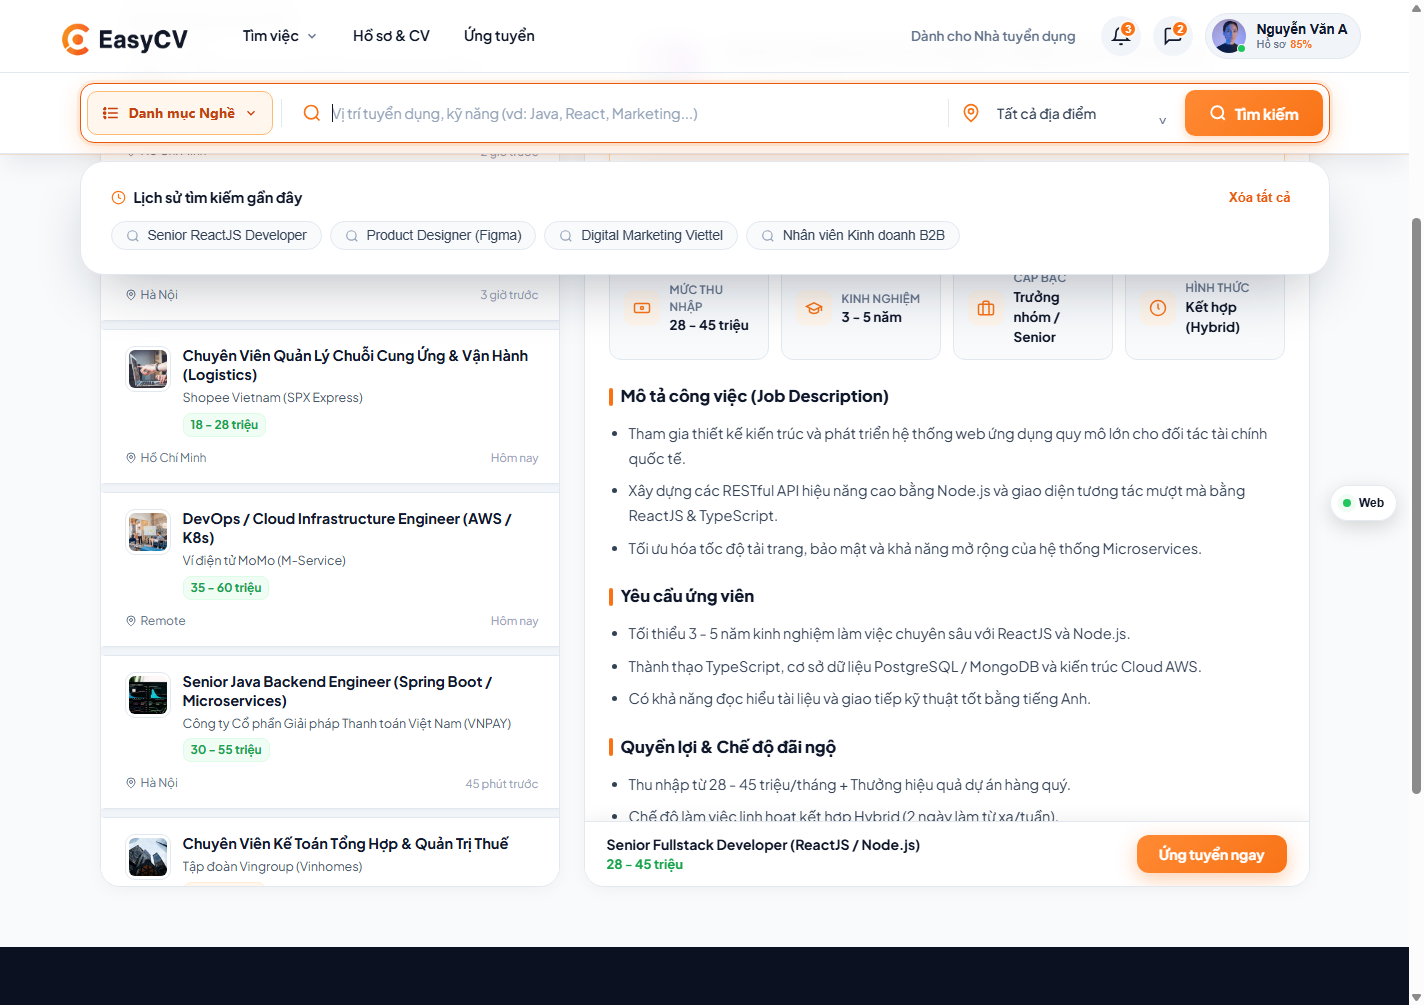
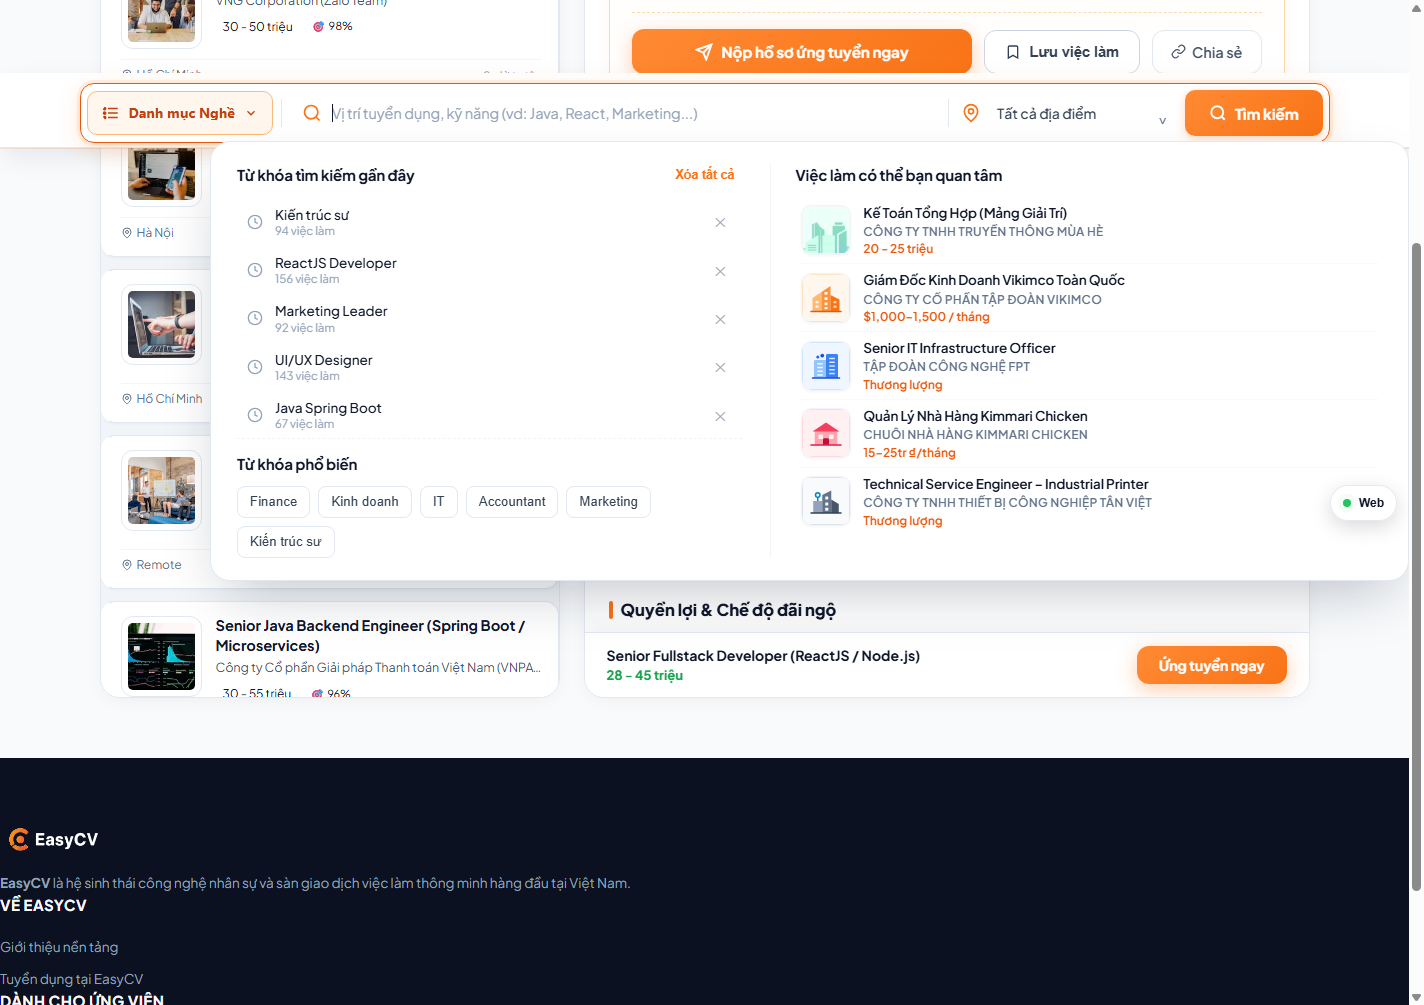
fix(job-detail): flush related cards and remove breadcrumb

diff --git a/scratch/verify_chi_tiet_suite.js b/scratch/verify_chi_tiet_suite.js
@@ -10,6 +10,7 @@ async function runTestSuite() {
     '--headless=new',
     '--remote-debugging-port=' + port,
     '--disable-gpu',
+    '--user-data-dir=D:\\master page\\scratch\\chrome-profile-detail-layout-cleanup',
     '--window-size=1440,1100',
     'http://localhost:3000/chi-tiet-viec-lam.html'
   ]);
@@ -66,6 +67,8 @@ async function runTestSuite() {
         const topNav = document.querySelector('.detail-top-nav');
         const listPane = document.getElementById('splitListPane');
         const listPaneComputed = listPane ? window.getComputedStyle(listPane) : null;
+        const listFeed = document.getElementById('splitListFeed');
+        const listFeedComputed = listFeed ? window.getComputedStyle(listFeed) : null;
         const firstCard = document.querySelector('.split-job-card');
         const firstCardComputed = firstCard ? window.getComputedStyle(firstCard) : null;
         const searchForm = document.getElementById('jobSearchForm');
@@ -75,9 +78,13 @@ async function runTestSuite() {
 
         return {
           detailTopNavPresent: !!topNav,
+          breadcrumbPresent: !!document.querySelector('.detail-breadcrumb-below-search'),
           listPanePaddingLeft: listPaneComputed ? listPaneComputed.paddingLeft : null,
           listPanePaddingRight: listPaneComputed ? listPaneComputed.paddingRight : null,
+          listFeedPaddingLeft: listFeedComputed ? listFeedComputed.paddingLeft : null,
+          listFeedPaddingRight: listFeedComputed ? listFeedComputed.paddingRight : null,
           firstCardWidth: firstCard ? firstCard.offsetWidth : null,
+          listFeedWidth: listFeed ? listFeed.clientWidth : null,
           listPaneWidth: listPane ? listPane.clientWidth : null,
           firstCardBorderLeft: firstCardComputed ? firstCardComputed.borderLeft : null,
           hasSearchForm: !!searchForm,
@@ -90,7 +97,10 @@ async function runTestSuite() {
     returnByValue: true
   });
 
-  console.log('1. Layout & Elements Check:', JSON.stringify(checkInitial.value, null, 2));
+  console.log('1. Layout & Elements Check:', JSON.stringify(checkInitial.result.value, null, 2));
+  if (checkInitial.result.value.breadcrumbPresent || checkInitial.result.value.listFeedPaddingLeft !== '0px' || checkInitial.result.value.listFeedPaddingRight !== '0px' || checkInitial.result.value.firstCardWidth !== checkInitial.result.value.listFeedWidth) {
+    throw new Error(`Related-list cleanup failed: ${JSON.stringify(checkInitial.result.value)}`);
+  }
 
   // Capture Initial Screenshot
   const shot1 = await send('Page.captureScreenshot', { format: 'png' });
@@ -114,7 +124,7 @@ async function runTestSuite() {
     `,
     returnByValue: true
   });
-  console.log('2. Open Category Modal Check:', JSON.stringify(openModalRes.value, null, 2));
+  console.log('2. Open Category Modal Check:', JSON.stringify(openModalRes.result.value, null, 2));
   await new Promise(r => setTimeout(r, 600));
 
   const shotCat = await send('Page.captureScreenshot', { format: 'png' });
@@ -157,7 +167,7 @@ async function runTestSuite() {
     `,
     returnByValue: true
   });
-  console.log('3. Search Input & Clear Button Check:', JSON.stringify(searchTestRes.value, null, 2));
+  console.log('3. Search Input & Clear Button Check:', JSON.stringify(searchTestRes.result.value, null, 2));
 
   // Step 4: Test Sticky Search on Scroll
   await send('Runtime.evaluate', {
@@ -181,7 +191,7 @@ async function runTestSuite() {
     `,
     returnByValue: true
   });
-  console.log('4. Sticky Search on Scroll Check:', JSON.stringify(stickyCheck.value, null, 2));
+  console.log('4. Sticky Search on Scroll Check:', JSON.stringify(stickyCheck.result.value, null, 2));
 
   const shotSticky = await send('Page.captureScreenshot', { format: 'png' });
   if (shotSticky && shotSticky.data) {
@@ -205,6 +215,30 @@ async function runTestSuite() {
     fs.writeFileSync(path.resolve(__dirname, 'chi_tiet_feed_scrolled.png'), Buffer.from(shotFeed.data, 'base64'));
     console.log('Saved scratch/chi_tiet_feed_scrolled.png');
   }
+
+  // Step 6: Verify the same cleanup at the 375px mobile breakpoint
+  await send('Emulation.setDeviceMetricsOverride', { width: 375, height: 812, deviceScaleFactor: 1, mobile: true });
+  const mobileLayout = await send('Runtime.evaluate', {
+    expression: `(() => {
+      const feed = document.getElementById('splitListFeed');
+      const card = feed?.querySelector('.split-job-card');
+      const style = feed ? getComputedStyle(feed) : null;
+      return {
+        breadcrumbPresent: !!document.querySelector('.detail-breadcrumb-below-search'),
+        paddingLeft: style?.paddingLeft,
+        paddingRight: style?.paddingRight,
+        cardWidth: card?.offsetWidth,
+        feedWidth: feed?.clientWidth,
+        viewport: document.documentElement.clientWidth
+      };
+    })()`,
+    returnByValue: true
+  });
+  console.log('5. Mobile Related-list Check:', JSON.stringify(mobileLayout.result.value, null, 2));
+  if (mobileLayout.result.value.breadcrumbPresent || mobileLayout.result.value.paddingLeft !== '0px' || mobileLayout.result.value.paddingRight !== '0px' || mobileLayout.result.value.cardWidth !== mobileLayout.result.value.feedWidth) {
+    throw new Error(`Mobile related-list cleanup failed: ${JSON.stringify(mobileLayout.result.value)}`);
+  }
+  await send('Emulation.clearDeviceMetricsOverride');
 
   ws.close();
   chrome.kill();

diff --git a/chi-tiet-viec-lam.html b/chi-tiet-viec-lam.html
@@ -11,26 +11,16 @@
   <link rel="stylesheet" href="css/home.css?v=7.0_cv_carousel">
   <link rel="stylesheet" href="css/location-picker.css?v=2.0">
   <link rel="stylesheet" href="css/category-filter-modal.css?v=1.5_all_pages_clear_backdrop">
-  <link rel="stylesheet" href="css/viec-lam.css?v=13.0_detail_search_sync">
+  <link rel="stylesheet" href="css/viec-lam.css?v=13.1_detail_list_flush">
   <style>
     .single-job-hero {
       background: linear-gradient(180deg, #FFFFFF 0%, #FFF7ED 50%, #F8FAFC 100%);
       border-bottom: 1px solid #E2E8F0;
       padding: 20px 0 16px 0;
     }
-    .detail-breadcrumb-below-search {
-      margin-top: 14px;
-      margin-bottom: 0;
-      padding: 0 4px;
-      font-size: 13.5px;
-      display: flex;
-      align-items: center;
-      flex-wrap: wrap;
-      gap: 8px;
-    }
     /* Bo góc thẻ việc làm liên quan khác và logo chuẩn 81x81 */
     .split-list-feed {
-      padding: 12px 14px 20px 14px !important;
+      padding: 12px 0 20px 0 !important;
       gap: 12px !important;
     }
     .split-job-card {
@@ -824,15 +814,6 @@
             </div>
           </div>
         </div>
-
-        <!-- Breadcrumb: Mô tả đường dẫn bên dưới box tìm kiếm -->
-        <nav class="breadcrumb-nav detail-breadcrumb-below-search" aria-label="Breadcrumb">
-          <a href="index.html">Trang chủ</a>
-          <span class="sep">/</span>
-          <a href="viec-lam.html">Tìm kiếm việc làm</a>
-          <span class="sep">/</span>
-          <span class="current" id="breadcrumbJobTitle">Chuyên Viên Quản Lý Chuỗi Cung Ứng &amp; Vận Hành (Logistics)</span>
-        </nav>
 
         <!-- Popover / Modal: Chọn Nhóm nghề, Nghề hoặc Chuyên môn -->
         <div class="category-modal-overlay" id="categoryModalOverlay" role="dialog" aria-modal="true" aria-labelledby="categoryModalTitle" hidden>

diff --git a/public/chi-tiet-viec-lam.html b/public/chi-tiet-viec-lam.html
@@ -11,26 +11,16 @@
   <link rel="stylesheet" href="css/home.css?v=7.0_cv_carousel">
   <link rel="stylesheet" href="css/location-picker.css?v=2.0">
   <link rel="stylesheet" href="css/category-filter-modal.css?v=1.5_all_pages_clear_backdrop">
-  <link rel="stylesheet" href="css/viec-lam.css?v=13.0_detail_search_sync">
+  <link rel="stylesheet" href="css/viec-lam.css?v=13.1_detail_list_flush">
   <style>
     .single-job-hero {
       background: linear-gradient(180deg, #FFFFFF 0%, #FFF7ED 50%, #F8FAFC 100%);
       border-bottom: 1px solid #E2E8F0;
       padding: 20px 0 16px 0;
     }
-    .detail-breadcrumb-below-search {
-      margin-top: 14px;
-      margin-bottom: 0;
-      padding: 0 4px;
-      font-size: 13.5px;
-      display: flex;
-      align-items: center;
-      flex-wrap: wrap;
-      gap: 8px;
-    }
     /* Bo góc thẻ việc làm liên quan khác và logo chuẩn 81x81 */
     .split-list-feed {
-      padding: 12px 14px 20px 14px !important;
+      padding: 12px 0 20px 0 !important;
       gap: 12px !important;
     }
     .split-job-card {
@@ -824,15 +814,6 @@
             </div>
           </div>
         </div>
-
-        <!-- Breadcrumb: Mô tả đường dẫn bên dưới box tìm kiếm -->
-        <nav class="breadcrumb-nav detail-breadcrumb-below-search" aria-label="Breadcrumb">
-          <a href="index.html">Trang chủ</a>
-          <span class="sep">/</span>
-          <a href="viec-lam.html">Tìm kiếm việc làm</a>
-          <span class="sep">/</span>
-          <span class="current" id="breadcrumbJobTitle">Chuyên Viên Quản Lý Chuỗi Cung Ứng &amp; Vận Hành (Logistics)</span>
-        </nav>
 
         <!-- Popover / Modal: Chọn Nhóm nghề, Nghề hoặc Chuyên môn -->
         <div class="category-modal-overlay" id="categoryModalOverlay" role="dialog" aria-modal="true" aria-labelledby="categoryModalTitle" hidden>

diff --git a/js/chi-tiet-viec-lam.js b/js/chi-tiet-viec-lam.js
@@ -1227,9 +1227,7 @@ document.addEventListener('DOMContentLoaded', () => {
 
     // Document Title
     document.title = `${job.title} | ${job.company} - Tuyển dụng EasyCV`;
-    const breadcrumbTitle = document.getElementById('breadcrumbJobTitle');
     const pageHeaderTitle = document.getElementById('pageHeaderTitle');
-    if (breadcrumbTitle) breadcrumbTitle.textContent = job.title;
     if (pageHeaderTitle) pageHeaderTitle.textContent = job.title;
 
     // Hero

diff --git a/public/js/chi-tiet-viec-lam.js b/public/js/chi-tiet-viec-lam.js
@@ -1227,9 +1227,7 @@ document.addEventListener('DOMContentLoaded', () => {
 
     // Document Title
     document.title = `${job.title} | ${job.company} - Tuyển dụng EasyCV`;
-    const breadcrumbTitle = document.getElementById('breadcrumbJobTitle');
     const pageHeaderTitle = document.getElementById('pageHeaderTitle');
-    if (breadcrumbTitle) breadcrumbTitle.textContent = job.title;
     if (pageHeaderTitle) pageHeaderTitle.textContent = job.title;
 
     // Hero

diff --git a/css/viec-lam.css b/css/viec-lam.css
@@ -2909,7 +2909,7 @@
   display: flex;
   flex-direction: column;
   gap: 12px;
-  padding: 12px 14px 20px 14px;
+  padding: 12px 0 20px 0;
   background: #F1F5F9;
   scrollbar-width: none !important;
   -ms-overflow-style: none !important;

diff --git a/public/css/viec-lam.css b/public/css/viec-lam.css
@@ -2909,7 +2909,7 @@
   display: flex;
   flex-direction: column;
   gap: 12px;
-  padding: 12px 14px 20px 14px;
+  padding: 12px 0 20px 0;
   background: #F1F5F9;
   scrollbar-width: none !important;
   -ms-overflow-style: none !important;

diff --git a/_bmad-output/implementation-artifacts/spec-job-detail-related-list-and-breadcrumb-cleanup.md b/_bmad-output/implementation-artifacts/spec-job-detail-related-list-and-breadcrumb-cleanup.md
@@ -1,0 +1,40 @@
+---
+title: 'Clean up the Job Detail related-jobs block'
+type: 'bugfix'
+created: '2026-10-06'
+status: 'done'
+route: 'oneshot'
+review_loop_iteration: 0
+context:
+  - '_bmad-output/planning-artifacts/prd.md'
+---
+
+<frozen-after-approval reason="human-owned intent — do not modify unless human renegotiates">
+
+## Intent
+
+**Problem:** The cards under “Việc làm liên quan khác” are inset by horizontal feed padding instead of aligning with the containing block edges, and the breadcrumb below the search area adds unwanted visual clutter.
+
+**Approach:** Remove only the related-list feed’s left/right padding so cards fill the block width, retain useful vertical spacing and card content padding, and remove the entire Job Detail breadcrumb markup and its unused update hook.
+
+</frozen-after-approval>
+
+## Implementation Notes
+
+- Code map: root/public `chi-tiet-viec-lam.html` contain an inline `.split-list-feed` override and the breadcrumb markup; root/public `css/viec-lam.css` contain the base feed padding; root/public `js/chi-tiet-viec-lam.js` update the breadcrumb title defensively. `scratch/verify_chi_tiet_suite.js` already measures the related-list layout.
+- Footprint: four root/public HTML/CSS/JS mirrors, the existing browser test, and required documentation/memory records. No dependency, data, routing, API, or irreversible change.
+- Keep the “Việc làm liên quan khác” header inset and keep internal card padding; only remove the gap between each card’s outer edge and the related-list container.
+- Removed the breadcrumb markup and its inline styling from both HTML mirrors, removed the obsolete breadcrumb title update from both JavaScript mirrors, and set horizontal related-feed padding to zero in both the base stylesheet and the page-level override. Raised the stylesheet cache key to `v=13.1_detail_list_flush`.
+- Extended `scratch/verify_chi_tiet_suite.js` with hard assertions, corrected its CDP result access, and added a 375px layout check.
+
+### Layout and Verification Matrix
+
+| Scenario | Expected behavior | Actual result |
+|---|---|---|
+| Desktop related list | Cards align to both feed edges | Card/feed widths both 458px; horizontal padding 0px — PASS |
+| Mobile 375px | Preserve flush alignment without overflow | Card/feed widths both 333px; horizontal padding 0px — PASS |
+| Related-list header | Keep readable title inset | Existing header padding retained — PASS |
+| Card content | Keep logo/text breathing room | Internal card padding unchanged — PASS |
+| Breadcrumb | Remove the entire trail below search | Breadcrumb absent from the DOM — PASS |
+| Search/category/sticky regressions | Preserve existing controls | Search, clear, category modal, and sticky checks PASS |
+| Source/public parity | Keep HTML/CSS/JS mirrors synchronized | SHA-256 parity — PASS |

diff --git a/_bmad-output/planning-artifacts/.memlog.md b/_bmad-output/planning-artifacts/.memlog.md
@@ -369,3 +369,6 @@ updated: 2026-09-30T11:55
 - (decision) Sửa đúng lỗi người dùng phản ánh trên màn Chi tiết việc làm: popup “Danh mục Nghề” phải đồng bộ với Trang chủ/Job List, không phủ tối và không blur giao diện xung quanh; backdrop vẫn tồn tại để click ngoài đóng popup.
 - (action) Thêm class `job-detail-page` cho root/public `chi-tiet-viec-lam.html`; mở rộng rule transparent/no-blur trong root/public `css/category-filter-modal.css`; nâng cache key lên `v=1.5_all_pages_clear_backdrop`; mở rộng `scratch/verify_category_no_blur.js`; cập nhật các implementation artifacts liên quan.
 - (verification) Chrome headless PASS cho root/public Job Detail: `background = rgba(0, 0, 0, 0)`, `backdrop-filter = none`, `pointer-events = auto`; mobile 375px có dialog rộng 335px và không tràn. Trang chủ/Job List tiếp tục PASS; CSS và HTML root/public có SHA-256 parity; `node --check` và `git diff --check` PASS.
+- (decision) Tinh gọn màn Chi tiết việc làm theo phản hồi người dùng: các thẻ trong “Việc làm liên quan khác” phải tràn sát hai mép vùng feed nhưng vẫn giữ padding nội dung bên trong và khoảng lề của header; xóa hoàn toàn breadcrumb “Trang chủ / Tìm kiếm việc làm / …” dưới thanh tìm kiếm.
+- (action) Cập nhật root/public `chi-tiet-viec-lam.html`, `css/viec-lam.css`, `js/chi-tiet-viec-lam.js`; bỏ padding ngang 14px của `.split-list-feed`, xóa breadcrumb markup/style/hook, nâng cache key lên `v=13.1_detail_list_flush`; mở rộng `scratch/verify_chi_tiet_suite.js`; ghi nhận tại `spec-job-detail-related-list-and-breadcrumb-cleanup.md` và `job-detail-header-and-search-refinement.md`.
+- (verification) Chrome headless PASS: desktop card/feed cùng rộng 458px, mobile 375px card/feed cùng rộng 333px, padding trái/phải đều 0px, breadcrumb không tồn tại trong DOM; search, clear input, category modal và sticky search tiếp tục hoạt động. Root/public HTML, CSS và JS có SHA-256 parity; `node --check` và `git diff --check` PASS.

diff --git a/_bmad-output/implementation-artifacts/job-detail-header-and-search-refinement.md b/_bmad-output/implementation-artifacts/job-detail-header-and-search-refinement.md
@@ -117,3 +117,12 @@ Kiểm thử tự động: `scratch/verify_job_detail_search_sync.js` — Chrome
 ### Điều chỉnh backdrop Danh mục nghề — 2026-10-06
 
 Popup Danh mục nghề trên màn Chi tiết đã được đồng bộ hoàn toàn với Trang chủ và Job List: không phủ tối, không blur giao diện xung quanh, vẫn giữ click ngoài để đóng và không tràn trên mobile 375px. Chi tiết ma trận kiểm thử nằm tại `spec-job-detail-category-modal-transparent-backdrop.md`.
+
+## 6. Related-list Edge Alignment and Breadcrumb Removal — 2026-10-06
+
+| Hạng mục | Trạng thái trước | Giải pháp | Kết quả |
+|---|---|---|---|
+| Lề ngang danh sách liên quan | Override nội tuyến đặt lại `14px` hai bên, làm các thẻ thụt vào | Đặt padding feed thành `12px 0 20px`; giữ nguyên padding nội dung từng card và padding header | Desktop: card/feed 458px; mobile: 333px; hai bên 0px |
+| Breadcrumb dưới thanh tìm kiếm | Vẫn hiển thị “Trang chủ / Tìm kiếm việc làm / …” | Xóa toàn bộ `<nav>` breadcrumb, CSS nội tuyến và hook cập nhật tiêu đề không còn dùng | Không còn phần tử breadcrumb trong DOM |
+| Cache và mirror | Trang Chi tiết dùng cache key CSS cũ | Nâng `viec-lam.css` lên `v=13.1_detail_list_flush`; đồng bộ root/public | SHA-256 parity PASS |
+| Regression coverage | Test cũ chỉ log và đọc sai cấu trúc kết quả CDP | Thêm assertion cứng, sửa `result.value`, bổ sung breakpoint 375px | Toàn bộ suite Chrome headless PASS |
